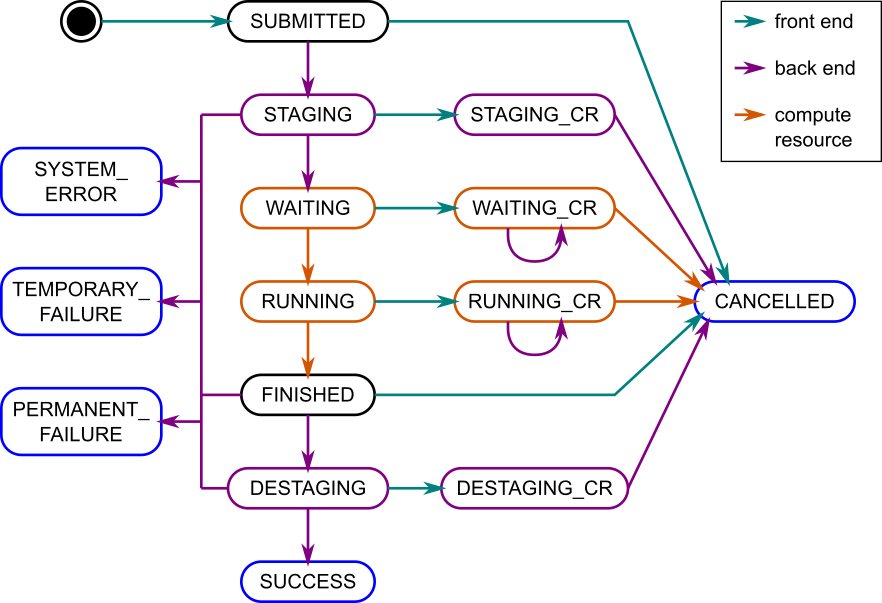
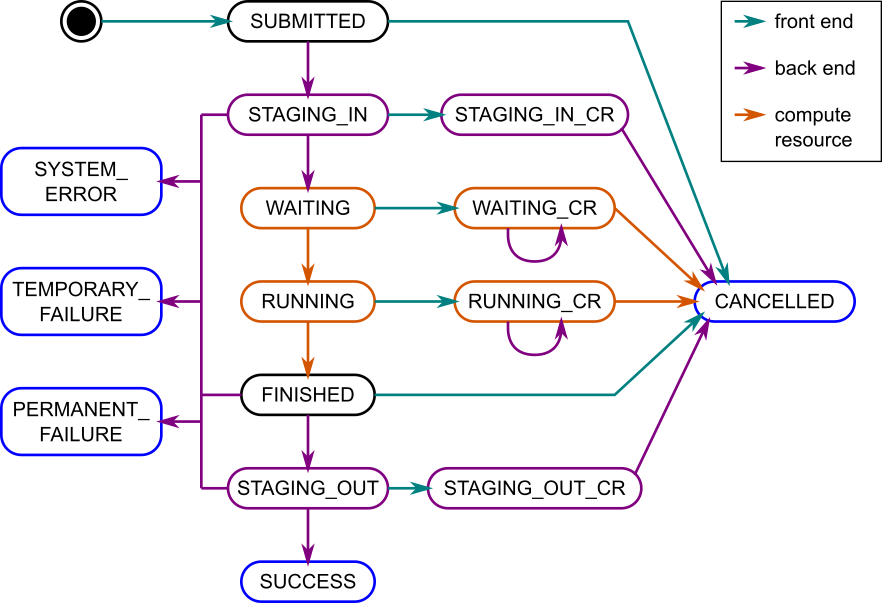
Change staging terminology to match common usage
For the record, I still think staging/destaging is better than
staging in and staging out. It's a verbed noun, to stage something
is putting something on a stage. So, we stage the files, then do
something with them on that stage, then destage the results (take
them off the stage again). We're copying, not moving, but that
works.

One normally doesn't place anything inside of a stage, so staging
in isn't right, and staging out is completely weird, and possibly
a contradiction in terms. Looks like at some point people started
using staging as a synonym for copying. Linguistic laziness, bah!

However, if this is what people call it, then this is what we'll
use, because the goal here is to communicate effectively, not to
satisfy pedantic amateur linguists like myself. There.

diff --git a/cerise/back_end/test/mock_store.py b/cerise/back_end/test/mock_store.py
@@ -98,7 +98,7 @@ class MockStore:
 
         if stage == "resolved":
             job.workflow_content = PassJob.workflow
-            job.state = JobState.STAGING
+            job.state = JobState.STAGING_IN
             return job
 
         if stage == "staged":
@@ -108,7 +108,7 @@ class MockStore:
             job.remote_input_path = os.path.join(pass_jobdir, 'input.json')
             job.remote_stdout_path = os.path.join(pass_jobdir, 'stdout.txt')
             job.remote_stderr_path = os.path.join(pass_jobdir, 'stderr.txt')
-            job.state = JobState.STAGING
+            job.state = JobState.STAGING_IN
 
             os.makedirs(job.remote_workdir_path)
 
@@ -131,13 +131,13 @@ class MockStore:
 
             if stage == 'run_and_updated':
                 job.remote_output = PassJob.remote_output
-                job.state = JobState.DESTAGING
+                job.state = JobState.STAGING_OUT
             return job
 
         if stage == "destaged":
             job.remote_output = PassJob.remote_output
             job.local_output = PassJob.local_output
-            job.state = JobState.DESTAGING
+            job.state = JobState.STAGING_OUT
             return job
 
         raise ValueError('Invalid stage in _create_pass_job')
@@ -160,7 +160,7 @@ class MockStore:
 
         if stage == 'resolved':
             job.workflow_content = WcJob.workflow
-            job.state = JobState.STAGING
+            job.state = JobState.STAGING_IN
             return job
 
         if stage == 'staged':
@@ -172,7 +172,7 @@ class MockStore:
             job.remote_input_path = os.path.join(wc_jobdir, 'input.json')
             job.remote_stdout_path = os.path.join(wc_jobdir, 'stdout.txt')
             job.remote_stderr_path = os.path.join(wc_jobdir, 'stderr.txt')
-            job.state = JobState.STAGING
+            job.state = JobState.STAGING_IN
 
             os.makedirs(wc_workdir)
 
@@ -204,13 +204,13 @@ class MockStore:
 
             if stage == 'run_and_updated':
                 job.remote_output = WcJob.remote_output('file://' + wc_output_dir)
-                job.state = JobState.DESTAGING
+                job.state = JobState.STAGING_OUT
             return job
 
         if stage == 'destaged':
             job.remote_output = WcJob.remote_output('')
             job.local_output = WcJob.local_output
-            job.state = JobState.DESTAGING
+            job.state = JobState.STAGING_OUT
             return job
 
         return ValueError('Invalid stage in _create_wc_job')
@@ -238,7 +238,7 @@ class MockStore:
             job.remote_input_path = os.path.join(slow_jobdir, 'input.json')
             job.remote_stdout_path = os.path.join(slow_jobdir, 'stdout.txt')
             job.remote_stderr_path = os.path.join(slow_jobdir, 'stderr.txt')
-            job.state = JobState.STAGING
+            job.state = JobState.STAGING_IN
 
             os.makedirs(job.remote_workdir_path)
 
@@ -265,7 +265,7 @@ class MockStore:
 
         if stage == "resolved":
             job.workflow_content = BrokenJob.workflow
-            job.state = JobState.STAGING
+            job.state = JobState.STAGING_IN
             return job
 
         if stage == "staged":
@@ -275,7 +275,7 @@ class MockStore:
             job.remote_input_path = os.path.join(broken_jobdir, 'input.json')
             job.remote_stdout_path = os.path.join(broken_jobdir, 'stdout.txt')
             job.remote_stderr_path = os.path.join(broken_jobdir, 'stderr.txt')
-            job.state = JobState.STAGING
+            job.state = JobState.STAGING_IN
 
             os.makedirs(job.remote_workdir_path)
 
@@ -299,7 +299,7 @@ class MockStore:
 
             if stage == 'run_and_updated':
                 job.remote_output = BrokenJob.remote_output
-                job.state = JobState.DESTAGING
+                job.state = JobState.STAGING_OUT
 
             return job
 

diff --git a/cerise/back_end/execution_manager.py b/cerise/back_end/execution_manager.py
@@ -26,10 +26,10 @@ class ExecutionManager:
         # TODO: recover database from crash
         with self._job_store:
             for job in self._job_store.list_jobs():
-                if job.state == JobState.STAGING:
+                if job.state == JobState.STAGING_IN:
                     self._remote_files.delete_job(job.id)
                     job.state = JobState.SUBMITTED
-                if job.state == JobState.DESTAGING:
+                if job.state == JobState.STAGING_OUT:
                     self._local_files.delete_output_dir(job.id)
                     job.state = JobState.FINISHED
 
@@ -74,25 +74,25 @@ class ExecutionManager:
             job.state = JobState.PERMANENT_FAILURE
             return
 
-        if job.try_transition(JobState.STAGING_CR, JobState.CANCELLED):
+        if job.try_transition(JobState.STAGING_IN_CR, JobState.CANCELLED):
             self._logger.debug('Job was cancelled while resolving input')
             return
         self._remote_files.stage_job(job_id, input_files)
         self._job_runner.start_job(job_id)
-        if not (job.try_transition(JobState.STAGING, JobState.WAITING) or
-                job.try_transition(JobState.STAGING_CR, JobState.WAITING_CR)):
+        if not (job.try_transition(JobState.STAGING_IN, JobState.WAITING) or
+                job.try_transition(JobState.STAGING_IN_CR, JobState.WAITING_CR)):
             job.state = JobState.SYSTEM_ERROR
 
     def _destage_job(self, job_id, job):
         result = get_cwltool_result(job.log)
 
         if result == JobState.SUCCESS:
-            if job.try_transition(JobState.FINISHED, JobState.DESTAGING):
+            if job.try_transition(JobState.FINISHED, JobState.STAGING_OUT):
                 output_files = self._remote_files.destage_job_output(job_id)
                 if output_files is not None:
                     self._local_files.publish_job_output(job_id, output_files)
-                    job.try_transition(JobState.DESTAGING, JobState.SUCCESS)
-                    job.try_transition(JobState.DESTAGING_CR, JobState.CANCELLED)
+                    job.try_transition(JobState.STAGING_OUT, JobState.SUCCESS)
+                    job.try_transition(JobState.STAGING_OUT_CR, JobState.CANCELLED)
         else:
             job.state = result
 
@@ -118,7 +118,7 @@ class ExecutionManager:
                         if job.state == JobState.FINISHED:
                             self._destage_job(job_id, job)
 
-                        if job.try_transition(JobState.SUBMITTED, JobState.STAGING):
+                        if job.try_transition(JobState.SUBMITTED, JobState.STAGING_IN):
                             self._stage_and_start_job(job_id, job)
                             self._logger.debug('Staged and started job')
 

diff --git a/cerise/job_store/job_state.py b/cerise/job_store/job_state.py
@@ -5,18 +5,18 @@ class JobState(Enum):
     """
     # Normal processing
     SUBMITTED = "Submitted"
-    STAGING = "Staging"
+    STAGING_IN = "StagingIn"
     WAITING = "Waiting"
     RUNNING = "Running"
     FINISHED = "Finished"
-    DESTAGING = "Destaging"
+    STAGING_OUT = "Destaging"
     SUCCESS = "Success"
 
     # Cancellation
-    STAGING_CR = "StagingCR"
+    STAGING_IN_CR = "StagingCR"
     WAITING_CR = "WaitingCR"
     RUNNING_CR = "RunningCR"
-    DESTAGING_CR = "DestagingCR"
+    STAGING_OUT_CR = "DestagingCR"
     CANCELLED = "Cancelled"
 
     # Error states
@@ -55,10 +55,10 @@ class JobState(Enum):
             bool: True if a job in this state has been marked for
                   cancellation.
         """
-        return state in [JobState.STAGING_CR,
+        return state in [JobState.STAGING_IN_CR,
                          JobState.WAITING_CR,
                          JobState.RUNNING_CR,
-                         JobState.DESTAGING_CR]
+                         JobState.STAGING_OUT_CR]
 
     @staticmethod
     def is_remote(state):
@@ -92,17 +92,17 @@ class JobState(Enum):
         """
         state_to_cwl_string = {
             JobState.SUBMITTED: 'Waiting',
-            JobState.STAGING: 'Waiting',
+            JobState.STAGING_IN: 'Waiting',
             JobState.WAITING: 'Waiting',
             JobState.RUNNING: 'Running',
             JobState.FINISHED: 'Running',
-            JobState.DESTAGING: 'Running',
+            JobState.STAGING_OUT: 'Running',
             JobState.SUCCESS: 'Success',
 
-            JobState.STAGING_CR: 'Waiting',
+            JobState.STAGING_IN_CR: 'Waiting',
             JobState.WAITING_CR: 'Waiting',
             JobState.RUNNING_CR: 'Running',
-            JobState.DESTAGING_CR: 'Running',
+            JobState.STAGING_OUT_CR: 'Running',
             JobState.CANCELLED: 'Cancelled',
 
             JobState.SYSTEM_ERROR: 'SystemError',

diff --git a/cerise/front_end/controllers/default_controller.py b/cerise/front_end/controllers/default_controller.py
@@ -48,11 +48,11 @@ def cancel_job_by_id(jobId):
             flask.abort(404, "Job not found")
 
         job.try_transition(job_state.JobState.SUBMITTED, job_state.JobState.CANCELLED)
-        job.try_transition(job_state.JobState.STAGING, job_state.JobState.STAGING_CR)
+        job.try_transition(job_state.JobState.STAGING_IN, job_state.JobState.STAGING_IN_CR)
         job.try_transition(job_state.JobState.WAITING, job_state.JobState.WAITING_CR)
         job.try_transition(job_state.JobState.RUNNING, job_state.JobState.RUNNING_CR)
         job.try_transition(job_state.JobState.FINISHED, job_state.JobState.CANCELLED)
-        job.try_transition(job_state.JobState.DESTAGING, job_state.JobState.DESTAGING_CR)
+        job.try_transition(job_state.JobState.STAGING_OUT, job_state.JobState.STAGING_OUT_CR)
 
     return get_job_by_id(jobId)
 

diff --git a/cerise/job_store/test/test_sqlite_job_store.py b/cerise/job_store/test/test_sqlite_job_store.py
@@ -135,11 +135,11 @@ def test_setting_please_delete(job):
     assert job.please_delete == True
 
 def test_state_transitions(job):
-    assert not job.try_transition(JobState.STAGING, JobState.STAGING_CR)
-    assert job.try_transition(JobState.SUBMITTED, JobState.STAGING)
-    assert job.state == JobState.STAGING
-    assert job.try_transition(JobState.STAGING, JobState.STAGING_CR)
-    assert job.state == JobState.STAGING_CR
+    assert not job.try_transition(JobState.STAGING_IN, JobState.STAGING_IN_CR)
+    assert job.try_transition(JobState.SUBMITTED, JobState.STAGING_IN)
+    assert job.state == JobState.STAGING_IN
+    assert job.try_transition(JobState.STAGING_IN, JobState.STAGING_IN_CR)
+    assert job.state == JobState.STAGING_IN_CR
 
 def test_set_get_log(job):
     test_log = """This is a test log

diff --git a/docs/source/design.rst b/docs/source/design.rst
@@ -1,7 +1,7 @@
 Design overview
 ===============
 
-This file describes the high level design of Cerise, covering the architecture, functionality,and behaviour of the system. The general principle of operation is to run the standard CWLTool on some remote resource, feeding it the job given to the service by the user. To allow the job to run correctly, input must be staged to the remote resource, and output must be destaged back to some location where the user of the service can access it.
+This file describes the high level design of Cerise, covering the architecture, functionality,and behaviour of the system. The general principle of operation is to run the standard CWLTool on some remote resource, feeding it the job given to the service by the user. To allow the job to run correctly, input must be staged to the remote resource, and output must be staged back to some location where the user of the service can access it.
 
 As the implementation is not yet complete, this is a description of how I'd like it to eventually be, not of how it currently is (although most pieces are already in place).
 
@@ -13,7 +13,7 @@ Cerise has a simple architecture.
 
    Architecture of Cerise. Arrows show the direction of calls.
 
-The front end of the system is provided by server-side Python bindings for the REST API, as generated by Swagger (which uses connexion). In the middle is the job store, in which the currently known jobs are registered, and which takes care of synchronisation between the front end and the back end. The back end takes care of staging, running, and destaging jobs, using the Xenon library (via PyXenon) to connect to the compute resource.
+The front end of the system is provided by server-side Python bindings for the REST API, as generated by Swagger (which uses connexion). In the middle is the job store, in which the currently known jobs are registered, and which takes care of synchronisation between the front end and the back end. The back end takes care of staging and running jobs, using the Xenon library (via PyXenon) to connect to the compute resource.
 
 Functionality
 -------------
@@ -32,7 +32,7 @@ The Remote Files component manages a remote storage area, presumably on the comp
 
 The Job Runner component contains the functionality for starting jobs on the compute resource, getting the current status (waiting to run, running, done) of remote jobs, and for cancelling them. It does not interpret the result of the job, and cannot tell whether it completed successfully or not, it only knows whether a job is running or not.
 
-The Execution Manager contains the main loop of the back end. It updates job statuses from the compute resource and updates their state in the job store, it stages jobs that need staging, it starts jobs after they've been staged, it cancels jobs where requested, it destages jobs that completed, and finally it deletes jobs where requested.
+The Execution Manager contains the main loop of the back end. It updates job statuses from the compute resource and updates their state in the job store, it stages in jobs that need staging in, it starts jobs after they've been staged in, it cancels jobs where requested, it stages out jobs that completed, and finally it deletes jobs where requested.
 
 
 Behaviour
@@ -53,7 +53,7 @@ In total, there are fifteen internal states that a job may be in:
 +===================+===============+==================+======================+
 | SUBMITTED         |      Rest     |     Waiting      |                      |
 +-------------------+---------------+------------------+----------------------+
-| STAGING           |     Active    |     Waiting      |                      |
+| STAGING_IN        |     Active    |     Waiting      |                      |
 +-------------------+---------------+------------------+----------------------+
 | WAITING           | Remote Active |     Waiting      |                      |
 +-------------------+---------------+------------------+----------------------+
@@ -61,17 +61,17 @@ In total, there are fifteen internal states that a job may be in:
 +-------------------+---------------+------------------+----------------------+
 | FINISHED          |      Rest     |     Running      |                      |
 +-------------------+---------------+------------------+----------------------+
-| DESTAGING         |     Active    |     Running      |                      |
+| STAGING_OUT       |     Active    |     Running      |                      |
 +-------------------+---------------+------------------+----------------------+
 | SUCCESS           |      Rest     |     Success      |        Final         |
 +-------------------+---------------+------------------+----------------------+
-| STAGING_CR        |     Active    |     Waiting      | Cancellation pending |
+| STAGING_IN_CR     |     Active    |     Waiting      | Cancellation pending |
 +-------------------+---------------+------------------+----------------------+
 | WAITING_CR        | Remote Active |     Waiting      | Cancellation pending |
 +-------------------+---------------+------------------+----------------------+
 | RUNNING_CR        | Remote Active |     Running      | Cancellation pending |
 +-------------------+---------------+------------------+----------------------+
-| DESTAGING_CR      |     Active    |     Running      | Cancellation pending |
+| STAGING_OUT_CR    |     Active    |     Running      | Cancellation pending |
 +-------------------+---------------+------------------+----------------------+
 | CANCELLED         |      Rest     |    Cancelled     |        Final         |
 +-------------------+---------------+------------------+----------------------+
@@ -84,9 +84,9 @@ In total, there are fifteen internal states that a job may be in:
 
 Normal execution
 ````````````````
-When a job is submitted to the system, an entry is added to the job store representing the job, in state SUBMITTED. The job is then moved to the STAGING state, and staging commences. In general this may take a while, depending on network speeds and data volumes. Once all files are copied, the job is submitted to the remote resource, and the job is moved into the WAITING state.
+When a job is submitted to the system, an entry is added to the job store representing the job, in state SUBMITTED. The job is then moved to the STAGING_IN state, and staging in commences. In general this may take a while, depending on network speeds and data volumes. Once all files are copied, the job is submitted to the remote resource, and the job is moved into the WAITING state.
 
-At some point, resources will become available at the remote compute resource, and the job is started, putting it into the RUNNING state. When it stops running, it moves on to FINISHED, from where the service will move it into DESTAGING and start the destaging process. When that is complete, and assuming all went well, the job ends up in stage SUCCESS.
+At some point, resources will become available at the remote compute resource, and the job is started, putting it into the RUNNING state. When it stops running, it moves on to FINISHED, from where the service will move it into STAGING_OUT and start the staging out process. When that is complete, and assuming all went well, the job ends up in stage SUCCESS.
 
 While the job is being processed, the user may request its status via the REST API. The REST API defines a more limited set of states, to which the internal states are mapped (third column in the table). The mapping is such that the Success state signals that the job finished successfully and results are available, while Waiting and Running signal that the user will have to wait a bit longer.
 
@@ -102,26 +102,26 @@ Errors
 ``````
 If an error occurs during processing, the job will be in an Active or Remote Active state (since in a Rest state nothing happens, and so nothing can go wrong).
 
-During staging, in state STAGING, permanent errors may occur if an input file is not available (e.g. due to a mistyped URI). Temporary failures are also possible, e.g. if an http URI returns error 503 Resource Temporarily Unavailable. In this case, staging is aborted, and the job moved to the corresponding error state. If an internal error occurs (which it shouldn't, but no program is perfect) the job is put into the SYSTEM_ERROR state.
+During staging in, in state STAGING_IN, permanent errors may occur if an input file is not available (e.g. due to a mistyped URI). Temporary failures are also possible, e.g. if an http URI returns error 503 Resource Temporarily Unavailable. In this case, staging is aborted, and the job moved to the corresponding error state. If an internal error occurs (which it shouldn't, but no program is perfect) the job is put into the SYSTEM_ERROR state.
 
-Unsuccessful workflow runs will result in a CWL error of type PermanentFailure or TemporaryFailure, as signalled by the remote CWLTool. Once a job is in the FINISHED state, this output will be examined, and it will be moved into SUCCESS, PERMANENT_FAILURE, or TEMPORARY_FAILURE as appropriate. If the remote CWL tool does not produce usable output, a SYSTEM_ERROR results.
+Unsuccessful workflow runs will result in a CWL error of type PermanentFailure or TemporaryFailure, as signalled by the remote CWL runner. Once a job is in the FINISHED state, this output will be examined, and it will be moved into SUCCESS, PERMANENT_FAILURE, or TEMPORARY_FAILURE as appropriate. If the remote CWL runner does not produce usable output, a SYSTEM_ERROR results.
 
-If an error occurs during destaging, in state DESTAGING, then like for staging, the process is aborted and the job moved into an appropriate error state (PERMANENT_FAILURE, TEMPORARY_FAILURE or SYSTEM_ERROR).
+If an error occurs during staging out, in state STAGING_OUT, then like for staging in, the process is aborted and the job moved into an appropriate error state (PERMANENT_FAILURE, TEMPORARY_FAILURE or SYSTEM_ERROR).
 
 Service shutdown
 ````````````````
 The service may be shut down while it is processing jobs. If this happens, then the shutdown process must ensure that running activities are stopped, and that the jobs are put into a state from where processing may recommence when the service is started again. This is achieved as follows:
 
-- For all jobs in the STAGING state, staging is aborted, and the job is moved into the SUBMITTED state.
-- For all jobs in the DESTAGING state, destaging is aborted, and the job is moved into the FINISHED state.
-- For all jobs in the STAGING_CR state, staging is aborted, and the job is moved into the CANCELLED state.
-- For all jobs in the DESTAGING_CR state, destaging is aborted, and the job is moved into the CANCELLED state.
+- For all jobs in the STAGING_IN state, staging is aborted, and the job is moved into the SUBMITTED state.
+- For all jobs in the STAGING_OUT state, staging is aborted, and the job is moved into the FINISHED state.
+- For all jobs in the STAGING_IN_CR state, staging is aborted, and the job is moved into the CANCELLED state.
+- For all jobs in the STAGING_OUT_CR state, staging is aborted, and the job is moved into the CANCELLED state.
 
 Service start-up
 ````````````````
 On service start-up, the jobs database is checked. If the service was shut down cleanly, all jobs will be in a Rest state, and the service may start up as normal and start processing.
 
-If any jobs are found to be in an Active state, they will be moved to the corresponding Rest state as per the shutdown procedure above. If staging and destaging are idempotent (and they should be) this should allow the system to continue processing where it left off. Ideally, staging and destaging will check whether a file already exists on the target side, and not upload or download it a second time.
+If any jobs are found to be in an Active state, they will be moved to the corresponding Rest state as per the shutdown procedure above. If staging is idempotent (and they should be) this should allow the system to continue processing where it left off. Ideally, staging will check whether a file already exists on the target side, and not upload or download it a second time.
 
 If any jobs are in WAITING_CR or RUNNING_CR and are still running, a cancellation request will be sent for them, as the service may have crashed after transitioning the state, but before sending the cancellation request, or the cancellation request may have failed for some other reason.
 
@@ -129,7 +129,7 @@ If any jobs are in WAITING_CR or RUNNING_CR and are still running, a cancellatio
 Multiprocess implementation
 ----------------------------
 
-Since this is a web service, multiple clients may access it concurrently. Staging and destaging may take a significant amount of time, during which we would like to be able to service requests. Also, even for a single client, a job submission request should not have to wait for completion of staging to return. Therefore, staging and destaging should be done in the background. Furthermore, the remote compute resource should be polled regularly to update the status of running jobs, so that their results can be destaged shortly after they are done.
+Since this is a web service, multiple clients may access it concurrently. Staging may take a significant amount of time, during which we would like to be able to service requests. Also, even for a single client, a job submission request should not have to wait for completion of staging in to return. Therefore, staging should be done in the background. Furthermore, the remote compute resource should be polled regularly to update the status of running jobs, so that their results can be staged out shortly after they are done.
 
 The service therefore has a front end, which communicates with the user, and a back end, which does most of the work. In the diagram above, state transitions done by the front end are coloured teal, while the ones done by the back end are coloured purple. State transitions performed by the remote resource are coloured orange. These are observed by the back end, and propagated to the job store periodically, since the remote resource cannot access the job store.
 
@@ -141,13 +141,13 @@ Deletion requests are signalled from the front end to the back end via a separat
 
 Back end threads
 ``````````````````
-The back end is responsible for staging and job submission. It operates in a loop, finding a job in the SUBMITTED state, moving it into STAGING, and starting the staging process. If during staging the job is moved into STAGING_CR (by a front-end thread), staging is aborted, and the job is moved to CANCELLED. If a shutdown is signalled, staging is aborted and the job is moved back into SUBMITTED.
+The back end is responsible for staging and job submission. It operates in a loop, finding a job in the SUBMITTED state, moving it into STAGING_IN, and starting the staging process. If during staging the job is moved into STAGING_IN_CR (by a front-end thread), staging is aborted, and the job is moved to CANCELLED. If a shutdown is signalled, staging is aborted and the job is moved back into SUBMITTED.
 
 The back end also regularly polls the remote compute resource, requesting the status of running jobs. Any jobs in the WAITING state that according to the retrieved information are running, are moved into the RUNNING state. Jobs in WAITING_CR go to RUNNING_CR.
 
 If a job is in a Remote Active state, but is found to no longer be running, then if it was in a Cancellation pending state (named _CR) it is moved to CANCELLED. Otherwise, the output is checked to see if the job was successful, and it is moved into an appropriate error state if it was not. If it was successful, is is put into FINISHED.
 
-If the back end finds a job in the FINISHED state, it checks the result. If the job finished successfully, it moves it to the DESTAGING state and begins destaging. If during destaging the job is moved into DESTAGING_CR, destaging is aborted and the job is moved to CANCELLED. If a shutdown is signalled, destaging is aborted and the job is moved back into FINISHED.
+If the back end finds a job in the FINISHED state, it checks the result. If the job finished successfully, it moves it to the STAGING_OUT state and begins staging out the results. If during staging the job is moved into STAGING_OUT_CR, staging is aborted and the job is moved to CANCELLED. If a shutdown is signalled, staging is aborted and the job is moved back into FINISHED.
 
 Synchronisation
 ```````````````
@@ -155,11 +155,11 @@ To avoid data corruption, there must be a mechanism that keeps multiple threads 
 
 In the Rest states, no processing is done, and any thread can safely move the job to another state as long as the state transitions are atomic. This can be implemented in the form of a try_transition(from_state, to_state) -> bool function. If two threads try to transition a job simultaneously, one from A to B and the other from A to C, one will succeed, while the other will fail because its from_state does not match the current state. (A transactional system with optimistic concurrency control.)
 
-Jobs are moved into Active states (STAGING or DESTAGING) by the back end, which subsequently owns it until it moves it into another state. The only exception is that during this process, the job may be moved into STAGING_CR or DESTAGING_CR by a front-end thread. Effectively, the state machine functions here as a compare-and-exchange based mutual exclusion mechanism.
+Jobs are moved into Active states (STAGING_IN or STAGING_OUT) by the back end, which subsequently owns it until it moves it into another state. The only exception is that during this process, the job may be moved into STAGING_IN_CR or STAGING_OUT_CR by a front-end thread. Effectively, the state machine functions here as a compare-and-exchange based mutual exclusion mechanism.
 
 Known issues/failure modes
 --------------------------
 
-If the service crashes or is killed while a job is being staged, and this happens just after submission of the job to the compute resource, but before the transition from STAGING to WAITING, the job will be started again on start-up of the service. This may be undesirable; maybe the service could check as part of error recovery whether the job is already running, or has run anyway.
+If the service crashes or is killed while a job is being staged, and this happens just after submission of the job to the compute resource, but before the transition from STAGING_IN to WAITING, the job will be started again on start-up of the service. This may be undesirable; maybe the service could check as part of error recovery whether the job is already running, or has run anyway.
 
 All synchronisation goes via a single job store component, which means that it may become a bottleneck. However, jobs only spend a fraction of their time in state transitions, jobs are independent of one another, and the total amount of data stored is small (kilobytes per job, at most), so this is unlikely to affect scalability.
